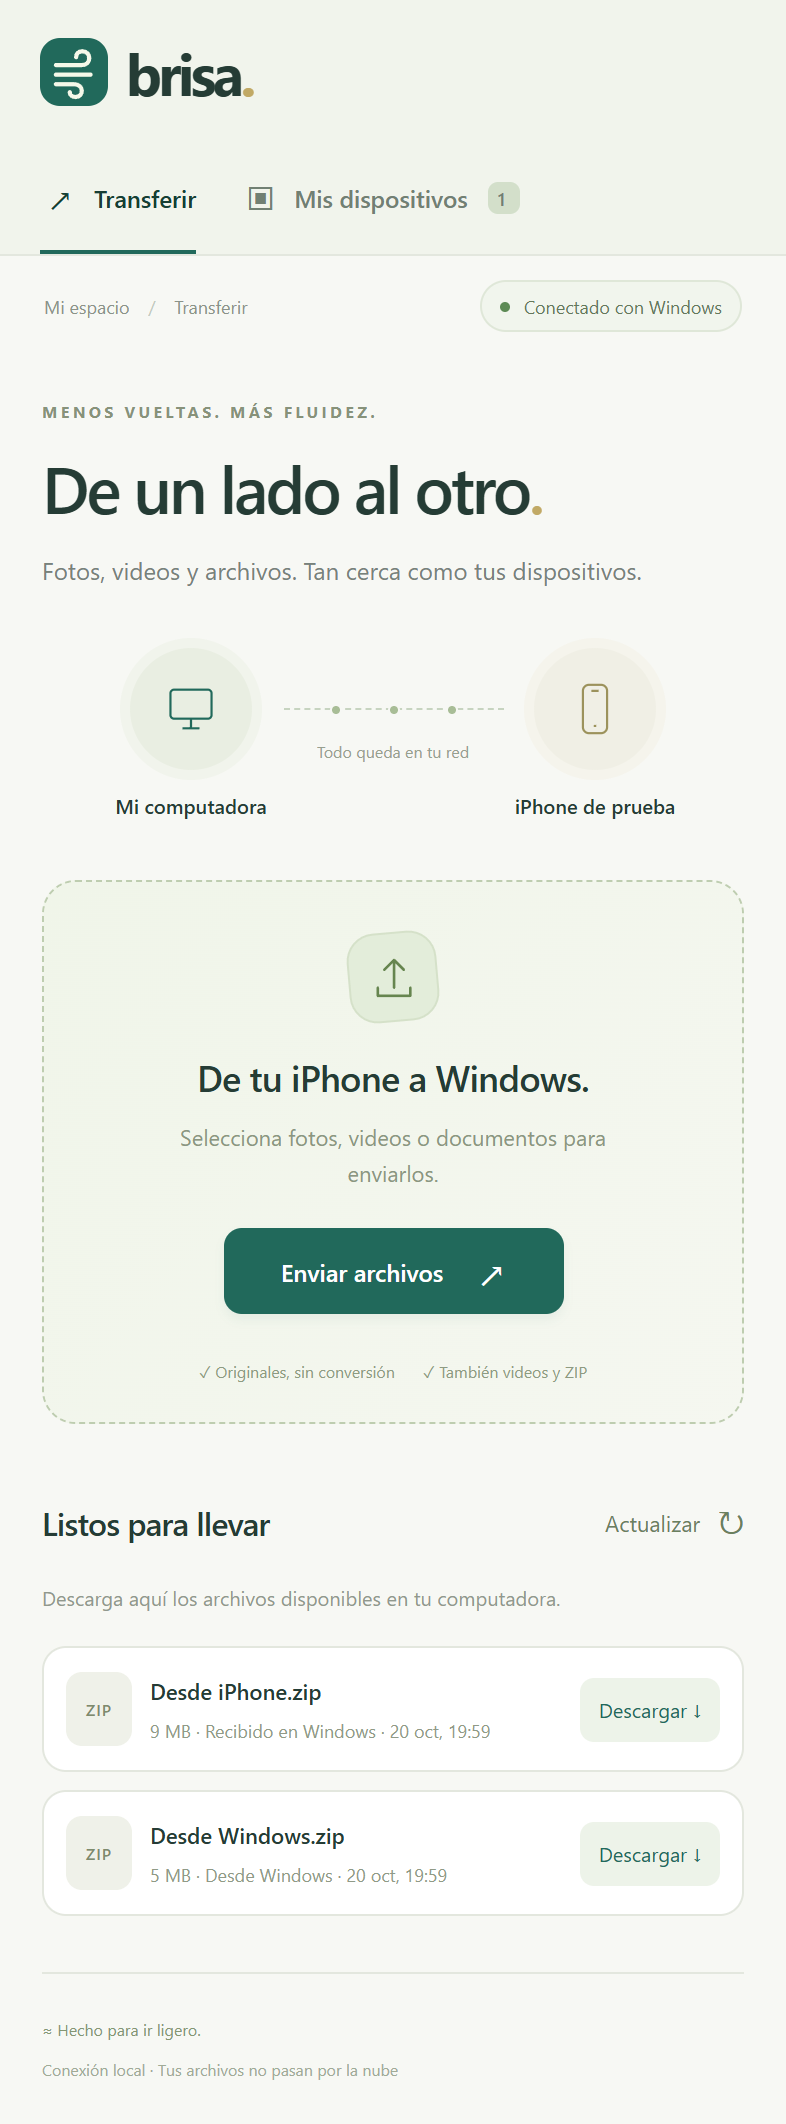
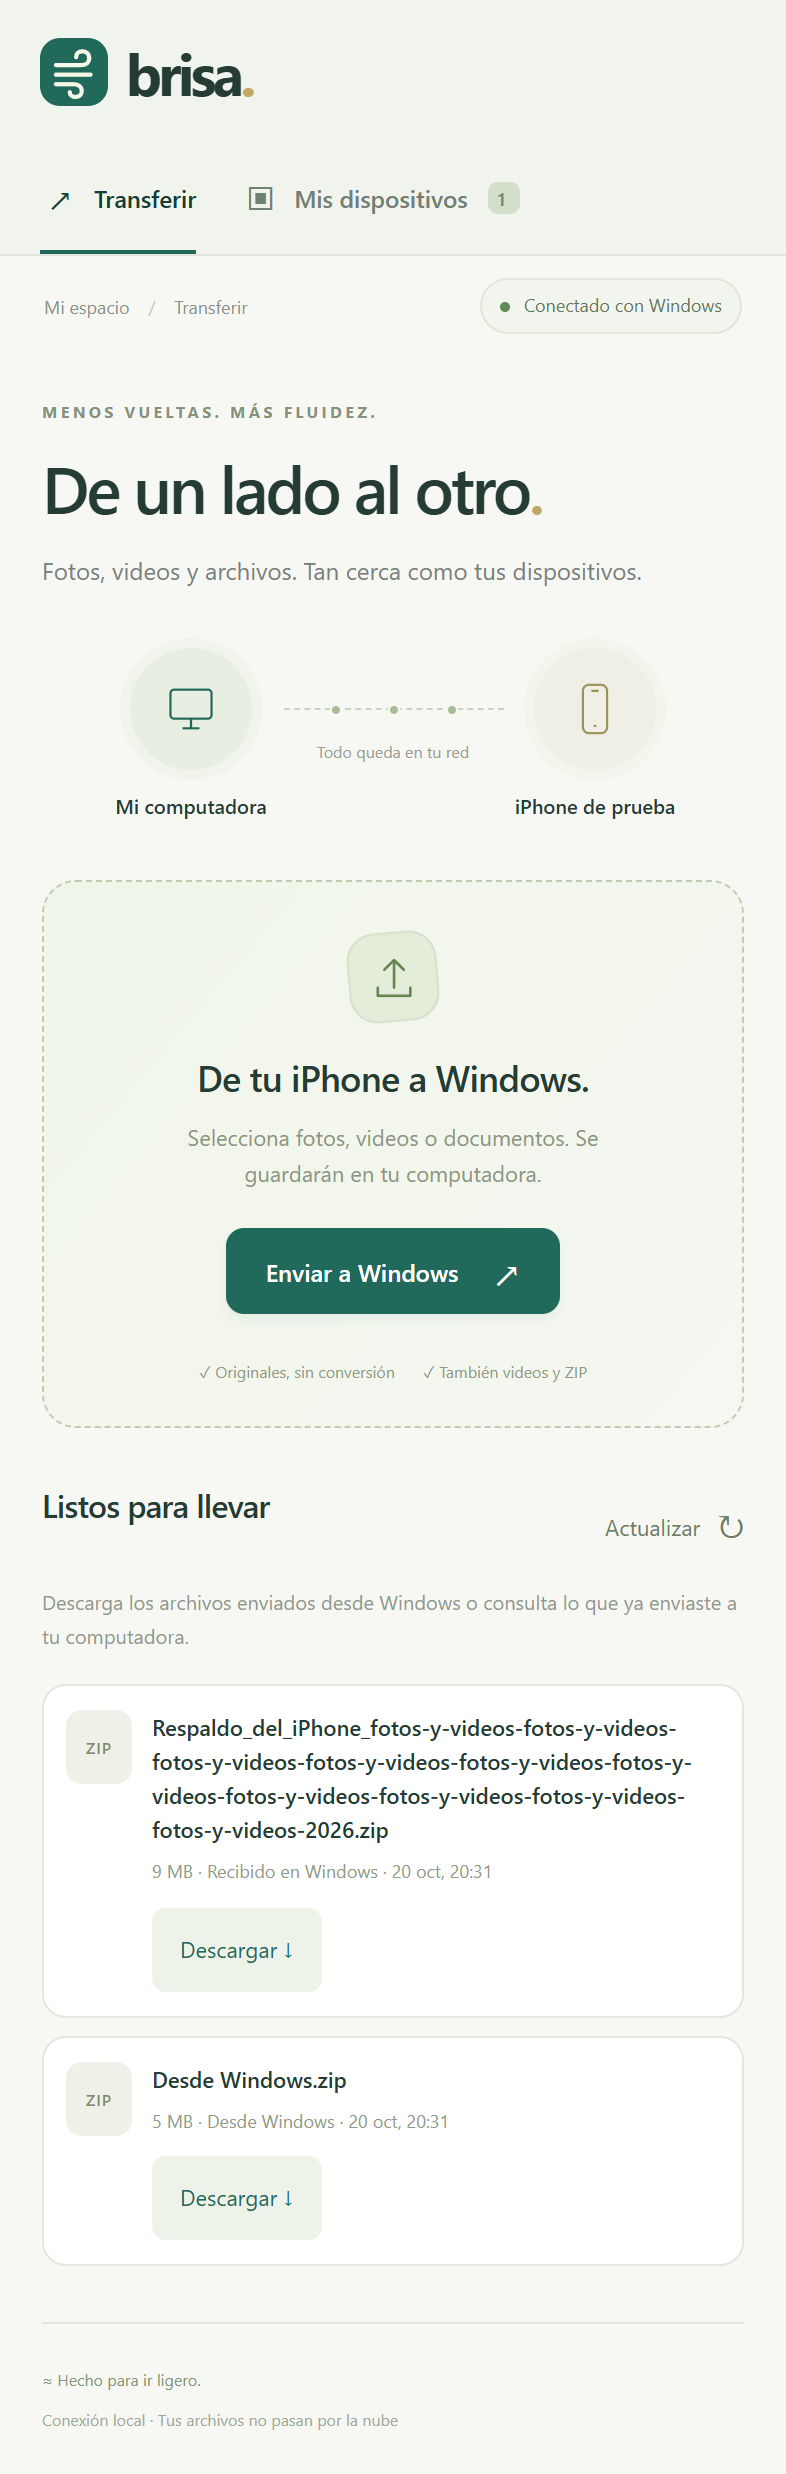
Actualizar a versión 0.1.1
- Windows: se añadió “Descargar” y se corregió “Abrir carpeta”, con respuesta visible si Windows falla.
- iPhone: se ajustó nombres largos, estados, botones y márgenes para evitar desbordamientos.
- Ambos sentidos: comprobar Windows → iPhone e iPhone → Windows, incluyendo descarga desde la computadora.

diff --git a/public/styles.css b/public/styles.css
@@ -5,3 +5,55 @@
 @media(max-width:700px){.shell{display:block}.sidebar{position:static;height:auto;padding:17px 20px 0;border-right:0;border-bottom:1px solid var(--line);display:block;background:#f1f4ec}.brand{font-size:29px;gap:9px}.brand img{width:34px;height:34px;border-radius:10px}.workspace-label,.sidebar-note,.sidebar-bottom{display:none}nav{display:flex;gap:22px;margin-top:20px}.nav-item{border-radius:0;padding:10px 0 14px;background:none!important;border-bottom:2px solid transparent;font-size:12px;gap:7px}.nav-item.active{border-bottom-color:var(--green)}.nav-icon{font-size:17px}.nav-count{margin-left:3px;font-size:9px;min-width:16px}.topbar{height:50px;padding:0 22px;border:0}.breadcrumb{font-size:9px}.breadcrumb span{margin:0 7px}.connection-pill{font-size:9px;padding:6px 9px;white-space:nowrap}.connection-pill .status-dot{width:5px;height:5px}#appContent{padding:22px 21px 0}.eyebrow{font-size:8px;letter-spacing:1.7px;margin-bottom:12px}h1{font-size:33px;letter-spacing:-1.5px}.page-heading{display:block;margin-bottom:0}.intro{font-size:12px;line-height:1.7;margin-top:12px}.page-heading .secondary{margin-top:17px}.device-bridge{padding:29px 5px 30px}.device-orb{width:92px}.device-orb svg{width:61px;height:61px;padding:16px;box-shadow:0 0 0 5px #f1f4ec}.phone-orb svg{box-shadow:0 0 0 5px #f5f4ec}.device-orb span{font-size:10px;max-width:92px}.bridge-line{margin-top:30px;width:110px}.bridge-line small{font-size:8px;top:15px}.dropzone{padding:25px 15px 20px}.dropzone h2{font-size:18px}.dropzone>p{font-size:11px;max-width:235px;margin:9px auto 19px}.drop-footer{gap:14px;font-size:8px;margin-top:23px}.dropzone .primary{min-width:170px}.upload-icon{width:45px;height:45px;margin-bottom:16px}.files-section,.activity-section{margin-top:28px}.section-heading h2{font-size:16px}.section-description{font-size:10px;line-height:1.7}.file-row,.upload-row{padding:12px 11px;gap:9px}.file-name{font-size:11px}.file-meta{font-size:9px}.file-type{width:33px;height:37px;font-size:8px}.download-link{padding:9px;font-size:10px}.page-footer{font-size:8px;margin-top:28px;padding:22px 0;display:block}.page-footer>span{display:block}.page-footer>span+span{margin-top:9px}.empty-state{padding:23px 15px}.pairing-screen{margin:28px auto}.pairing-screen h1{font-size:34px}.notice{font-size:11px;padding:14px}.device-list{grid-template-columns:1fr}.install-tip{margin-bottom:30px}.install-tip p{font-size:11px}#offlineBanner{margin:6px 21px 0}.setup-body{padding:25px 22px}.setup-card .brand{margin-bottom:35px}.setup-card h1{font-size:39px}.setup-steps>li{padding-left:31px}.setup-steps strong{font-size:14px}.setup-steps p{font-size:12px}.upload-status{font-size:9px}.upload-detail{font-size:9px}.task-actions{gap:9px}.task-actions button{font-size:9px}}
 @media(prefers-reduced-motion:reduce){*{transition:none!important;scroll-behavior:auto!important}}
 .file-toolbar{display:flex;gap:18px;align-items:center}
+
+/* Keep file names, transfer status, and iPhone safe areas inside the viewport. */
+html{-webkit-text-size-adjust:100%;text-size-adjust:100%}
+.shell{padding-top:env(safe-area-inset-top,0px);padding-left:env(safe-area-inset-left,0px);padding-right:env(safe-area-inset-right,0px);min-height:100svh}
+main,#appContent,section,.file-list,.upload-list,.file-info{min-width:0}
+main{padding-bottom:env(safe-area-inset-bottom,0px)}
+.file-row{display:grid;grid-template-columns:38px minmax(0,1fr) auto}
+.file-name{min-width:0}
+.file-actions{display:flex;align-items:center;justify-content:flex-end;flex-wrap:wrap;gap:8px;min-width:0}
+.download-link,.folder-link{display:inline-flex;align-items:center;justify-content:center;min-height:40px}
+.folder-link{border:1px solid #dfe7d7;background:#fafcf6;color:#657d56;border-radius:7px;padding:9px 12px;font-size:11px;white-space:nowrap}
+.folder-link:hover{background:#eaf0e4}
+.upload-top{display:grid;grid-template-columns:minmax(0,1fr) auto;align-items:start}
+.upload-detail>span{min-width:0;overflow-wrap:anywhere}
+.task-actions{flex-shrink:0;flex-wrap:wrap}
+.file-meta{overflow-wrap:anywhere}
+.qr-frame{width:min(240px,100%);height:auto;aspect-ratio:1}
+.toast{width:max-content;max-width:min(520px,calc(100% - 32px));overflow-wrap:anywhere}
+
+@media(max-width:850px) and (min-width:701px){
+  .file-row{grid-template-columns:38px minmax(0,1fr)}
+  .file-actions{grid-column:2;justify-content:flex-start}
+}
+@media(max-width:700px){
+  .topbar{height:auto;min-height:50px;flex-wrap:wrap;padding-top:10px;padding-bottom:10px;gap:8px 12px}
+  .connection-pill{max-width:100%;white-space:normal;line-height:1.5}
+  .connection-pill span:last-child{min-width:0;overflow-wrap:anywhere}
+  .file-row{grid-template-columns:33px minmax(0,1fr);align-items:start;gap:10px}
+  .file-actions{grid-column:2;justify-content:flex-start}
+  .file-name{white-space:normal;overflow-wrap:anywhere;line-height:1.55}
+  .file-meta{line-height:1.7}
+  .upload-top{grid-template-columns:minmax(0,1fr);gap:5px}
+  .upload-status{white-space:normal;overflow-wrap:anywhere;line-height:1.6}
+  .upload-detail{flex-direction:column;align-items:stretch;gap:7px;line-height:1.7}
+  .task-actions{justify-content:flex-start;gap:8px 18px}
+  .task-actions button{min-height:34px;padding:5px 0;font-size:11px}
+  .download-link,.folder-link{min-height:42px;padding:10px 14px;font-size:11px}
+  .section-heading{flex-wrap:wrap;align-items:flex-start;gap:8px 12px}
+  .file-toolbar{flex-wrap:wrap;gap:14px}
+  .drop-footer{flex-wrap:wrap;gap:8px 14px;line-height:1.6}
+  .dropzone .primary{min-width:0;max-width:100%}
+  input:not([type=file]),select{font-size:16px}
+}
+@media(max-width:350px){
+  #appContent{padding-left:16px;padding-right:16px}
+  h1{font-size:29px}
+  .device-bridge{padding-left:0;padding-right:0}
+  .device-orb{width:82px}
+  .device-orb span{max-width:82px}
+  .bridge-line{width:88px;flex-shrink:1}
+  .bridge-line small{white-space:normal;text-align:center;width:100%;line-height:1.5}
+}

diff --git a/public/app.js b/public/app.js
@@ -63,10 +63,10 @@ function configure(info) {
   if (!info.authenticated) return;
   $('#phoneLabel').textContent = info.admin ? (info.devices?.find(device => device.online)?.name || info.devices?.[0]?.name || 'Tu iPhone') : info.device.name;
   $('#bridgeText').textContent = info.admin && !info.devices?.length ? 'El primer vínculo' : 'Todo queda en tu red';
-  $('#dropTitle').textContent = info.admin ? 'Un archivo. Un pequeño viaje.' : 'De tu iPhone a Windows.';
-  $('#dropHint').textContent = info.admin ? 'Arrastra tus archivos aquí o selecciónalos para empezar.' : 'Selecciona fotos, videos o documentos para enviarlos.';
-  $('#chooseFiles').firstChild.textContent = info.admin ? 'Elegir archivos ' : 'Enviar archivos ';
-  $('#filesDescription').textContent = info.admin ? 'Disponibles para tus dispositivos vinculados. Los recibidos también se guardan en esta computadora.' : 'Descarga aquí los archivos disponibles en tu computadora.';
+  $('#dropTitle').textContent = info.admin ? 'De Windows a tu iPhone.' : 'De tu iPhone a Windows.';
+  $('#dropHint').textContent = info.admin ? 'Arrastra o selecciona archivos. Después podrás descargarlos desde Brisa en tu iPhone.' : 'Selecciona fotos, videos o documentos. Se guardarán en tu computadora.';
+  $('#chooseFiles').firstChild.textContent = info.admin ? 'Enviar al iPhone ' : 'Enviar a Windows ';
+  $('#filesDescription').textContent = info.admin ? 'Descarga una copia o abre la carpeta de los archivos recibidos. También están disponibles en tu iPhone.' : 'Descarga los archivos enviados desde Windows o consulta lo que ya enviaste a tu computadora.';
   $('#deviceCount').textContent = String(info.admin ? info.devices.length : 1);
   renderDevices();
   if (info.admin) {
@@ -144,11 +144,15 @@ function renderFiles(files) {
     info.append(name, meta); row.append(info);
     const download = make('a', 'download-link', 'Descargar ↓');
     download.href = `/api/files/${file.id}/download`; download.download = file.name;
+    download.addEventListener('click', () => toast('Tu navegador gestionará la descarga del archivo.'));
+    const actions = make('div', 'file-actions');
+    actions.append(download);
     if (state.admin) {
-      const reveal = make('button', 'download-link', 'Mostrar ↗');
-      reveal.addEventListener('click', () => revealFolder(file.id));
-      row.append(reveal);
-    } else row.append(download);
+      const reveal = make('button', 'folder-link', 'Abrir carpeta ↗');
+      reveal.addEventListener('click', () => revealFolder(file.id, reveal));
+      actions.append(reveal);
+    }
+    row.append(actions);
     list.append(row);
   }
 }
@@ -222,9 +226,9 @@ const digest = async blob => {
 function renderTasks() {
   $('#activitySection').hidden = !tasks.length;
   const active = tasks.filter(task => !['complete', 'cancelled'].includes(task.status));
-  $('#queueCount').textContent = active.length ? `${active.length} pendiente${active.length === 1 ? '' : 's'}` : 'Todo llegó';
+  $('#queueCount').textContent = active.length ? `${active.length} pendiente${active.length === 1 ? '' : 's'}` : state.admin ? 'Archivos preparados' : 'Todo guardado';
   const list = $('#uploadList'); list.replaceChildren();
-  const status = { queued: 'En espera', preparing: 'Preparando', uploading: 'Enviando', paused: 'En pausa', error: 'Pendiente de reintento', selection: 'Elige el original', verifying: 'Comprobando el original', completing: 'Verificando en Windows', complete: 'Disponible en Windows', cancelling: 'Cancelando' };
+  const status = { queued: 'En espera', preparing: 'Preparando', uploading: 'Enviando', paused: 'En pausa', error: 'Pendiente de reintento', selection: 'Elige el original', verifying: 'Comprobando el original', completing: 'Verificando en Windows', complete: state.admin ? 'Listo para el iPhone' : 'Guardado en Windows', cancelling: 'Cancelando' };
   for (const task of tasks.filter(task => task.status !== 'cancelled')) {
     const row = make('article', 'upload-row'); row.append(fileIcon(task));
     const info = make('div', 'file-info'); const top = make('div', 'upload-top');
@@ -387,11 +391,17 @@ $('#resumeInput').addEventListener('change', event => { resumeFromSelection(even
 $('#pairForm').addEventListener('submit', requestPair);
 $('#pairAgain').addEventListener('click', requestPair);
 $('#refreshFiles').addEventListener('click', async () => { await refresh(); if ($('#offlineBanner').hidden) toast('Archivos actualizados.'); });
-async function revealFolder(id) {
-  try { await api('/api/storage/reveal', { method: 'POST', body: JSON.stringify({ id }) }); }
+async function revealFolder(id, button) {
+  const label = button?.textContent;
+  if (button) { button.disabled = true; button.textContent = 'Abriendo…'; }
+  try {
+    await api('/api/storage/reveal', { method: 'POST', body: JSON.stringify({ id }) });
+    toast('Carpeta abierta en el Explorador de Windows.');
+  }
   catch (error) { toast(error.message, true); }
+  finally { if (button) { button.disabled = false; button.textContent = label; } }
 }
-$('#openFolder').addEventListener('click', () => revealFolder());
+$('#openFolder').addEventListener('click', event => revealFolder(undefined, event.currentTarget));
 for (const id of ['connectButton', 'connectButtonDevices']) $( `#${id}`).addEventListener('click', () => $('#connectDialog').showModal());
 $('#closeConnect').addEventListener('click', () => $('#connectDialog').close());
 $('#addressSelect').addEventListener('change', updateQr);

diff --git a/public/index.html b/public/index.html
@@ -23,7 +23,7 @@
         <button class="nav-item" data-view="devices"><span class="nav-icon">▣</span>Mis dispositivos<span class="nav-count" id="deviceCount">0</span></button>
       </nav>
       <div class="sidebar-note"><span class="mini-leaf">≈</span><strong>De aquí para allá.</strong><p>Tus archivos se quedan entre tus dispositivos.</p><span class="small-pill">Sin nube · Sin suscripciones</span></div>
-      <div class="sidebar-bottom"><span class="status-dot"></span><span>Brisa <span id="version">0.1.0</span><small>Primera versión de prueba</small></span></div>
+      <div class="sidebar-bottom"><span class="status-dot"></span><span>Brisa <span id="version">0.1.1</span><small>Versión de prueba</small></span></div>
     </aside>
     <main>
       <header class="topbar"><span class="breadcrumb" id="breadcrumb">Mi espacio <span>/</span> Transferir</span><div class="connection-pill" id="connectionPill"><span class="status-dot"></span><span id="connectionText">Conectando…</span></div></header>

diff --git a/public/sw.js b/public/sw.js
@@ -1,5 +1,5 @@
 // Only the interface is cached. Credentials, files, and API responses never enter this cache.
-const CACHE = 'brisa-interface-v1';
+const CACHE = 'brisa-interface-v2';
 const ASSETS = ['/', '/styles.css', '/app.js', '/icon.svg', '/icon-192.png', '/icon-512.png', '/manifest.webmanifest'];
 self.addEventListener('install', event => { event.waitUntil(caches.open(CACHE).then(cache => cache.addAll(ASSETS)).then(() => self.skipWaiting())); });
 self.addEventListener('activate', event => { event.waitUntil(caches.keys().then(keys => Promise.all(keys.filter(key => key.startsWith('brisa-interface-') && key !== CACHE).map(key => caches.delete(key)))).then(() => self.clients.claim())); });

diff --git a/README.md b/README.md
@@ -17,6 +17,8 @@ npm.cmd start
 
 No se instala inicio automático ni se modifican las reglas del firewall automáticamente. Si Windows pregunta por acceso a la red, permite Node.js **en tu red privada de confianza**.
 
+Si cambias de repositorio o actualizas Brisa, cierra el servidor anterior con `Detener-Brisa.cmd` y abre `Iniciar-Brisa.cmd` desde la carpeta nueva. El lanzador detecta si quedó abierta otra copia o versión, para evitar mostrar código anterior por error. Conserva la carpeta local `.brisa` para mantener archivos, certificados y vinculación; debe seguir excluida de Git.
+
 ## Conectar el iPhone la primera vez
 
 1. Conecta el iPhone y Windows a la misma red. Windows también puede estar conectado por cable al router.
@@ -33,7 +35,7 @@ Si el icono de inicio abre sin la autorización que tenías en Safari, aprueba e
 ## Transferir
 
 - **Windows → iPhone:** arrastra o selecciona archivos en el panel de Windows. En el iPhone aparecerán en **Listos para llevar**; toca **Descargar**. Safari gestiona el guardado. Para imágenes, puedes guardarlas después en Fotos desde iOS.
-- **iPhone → Windows:** abre Brisa en el teléfono y toca **Enviar archivos**. En Windows quedan guardados automáticamente. **Mostrar** abre el Explorador con el archivo seleccionado; **Abrir carpeta** abre todos los recibidos.
+- **iPhone → Windows:** abre Brisa en el teléfono y toca **Enviar a Windows**. Los archivos quedan guardados automáticamente en la computadora. En cada fila del panel de Windows puedes elegir **Descargar** para guardar otra copia o **Abrir carpeta** para ver la carpeta que contiene el archivo. El botón superior **Abrir carpeta** abre todos los recibidos.
 - Se transfieren archivos originales sin convertirlos ni comprimirlos. Se admiten ZIP; no se extraen. No se admiten selecciones de carpetas como tales.
 - Puedes pausar y reintentar envíos. Si recargas la página o reinicias Windows, aparecerán las transferencias pendientes. Elige de nuevo el archivo original: Brisa verifica las partes ya recibidas antes de continuar.
 - Las descargas usan HTTP Range y ETag. Su reanudación depende del gestor de descargas de Safari; no hay una cola de descargas propia en esta versión.

diff --git a/CHANGELOG.md b/CHANGELOG.md
@@ -1,0 +1,11 @@
+# Cambios de Brisa
+
+## 0.1.1
+
+- Windows dispone de una descarga real en cada archivo, además de abrir su carpeta.
+- La apertura de carpetas utiliza el mecanismo de Windows para abrir una ventana normal, muestra progreso y comunica los errores.
+- Los nombres largos, estados y acciones de transferencia se ajustan al ancho de iPhone. Se respetan las áreas de pantalla reservadas y se evita el zoom al escribir en campos.
+- Los botones explican las dos direcciones: enviar al iPhone y enviar a Windows.
+- El lanzador comprueba el repositorio y la versión del servidor activo.
+- La caché de la interfaz se actualiza sin borrar la identidad del dispositivo.
+- Las pruebas cubren descargas desde Windows, apertura de carpetas, archivos largos y anchos móviles de 320 a 430 píxeles, además del flujo de transferencia existente.
